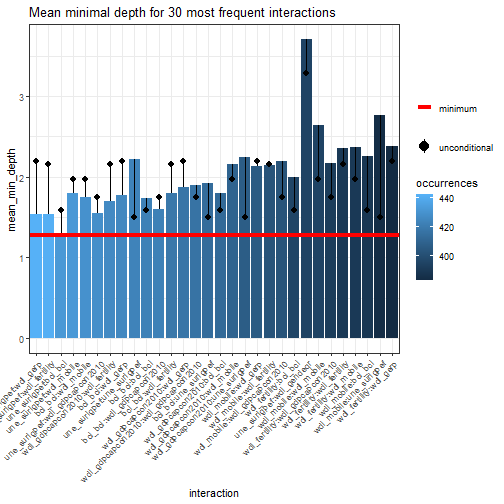
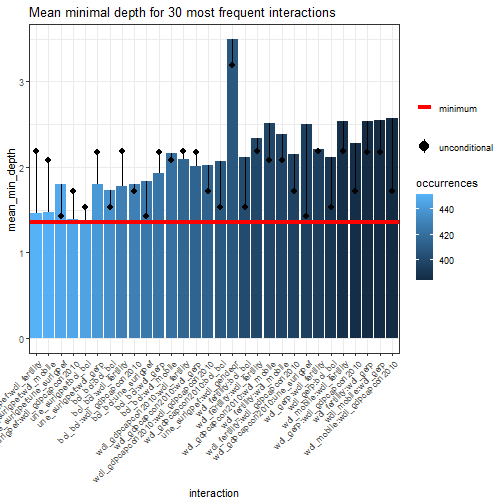
revised day 3

diff --git a/Day-3.html b/Day-3.html
@@ -746,8 +746,8 @@ dem.rf
 ##                      Number of trees: 500
 ## No. of variables tried at each split: 2
 ## 
-##           Mean of squared residuals: 0.008926536
-##                     % Var explained: 69
+##           Mean of squared residuals: 0.008589642
+##                     % Var explained: 70.17
 ```
 
 ---
@@ -843,7 +843,7 @@ class: center, middle
 library(rpart)
 
 # Load data
-kingzeng &lt;- read.csv("data/kingzeng.csv")
+kingzeng &lt;- read.csv("https://raw.githubusercontent.com/jnseawright/iqmr2026/main/Data/kingzeng.csv")
 
 # Fit CART with a subset of predictors
 homicide.cart &lt;- rpart(homratet ~ bnkv10 + bnkv125 + bnkv34 + faocalry + gdf_gnp, 
@@ -896,17 +896,66 @@ Navigate to: `https://jnseawright.github.io/practice-of-multimethod/Chapter-3.ht
 
 ---
 
-### Part 4 (Time Permitting): Topic Model Exploration
+### Part 4 (Time Permitting): Topic Model Exploration &amp; Case Selection
 
-**Alternative Lab Activity:**
-If students have already completed the CART exercise, they can explore the January 6th topic model results (provided as pre-computed topic assignments).
+**Scenario:** You have a corpus of 1,640 DOJ documents from January 6th cases. Reading all of them is impossible. How do you choose 3–5 documents for in-depth qualitative analysis? This exercise treats the topic model as a **structured sampling frame** to identify the most informative cases.
 
-**Task:**
-- Examine the topic descriptions.
-- Select one document from a topic of interest.
-- Read the original DOJ document (links provided).
-- Discuss: How does the topic model's characterization compare to your close reading?
- research, exactly as described in the course description.
+**Materials:**
+- `jan6_topic_assignments.csv` – Document-topic probabilities (theta) for all 1,640 files.
+- `jan6_topic_labels.csv` – Top 5 keywords for each topic (interpret the labels carefully).
+- `lab_excerpts/` – A pre-selected folder of PDFs matching the `doc_id` column in the CSV.
+
+---
+
+#### Task A: Understand the Model's Vocabulary (5 min)
+Open `jan6_topic_labels.csv` and review the top words for each topic (1–8).
+
+- **Topic 4** and **Topic 6** both use "building" and "restricted/grounds" – what distinguishes them based on the other keywords? 
+- **Topic 8** includes "oath" and "members" – what kind of legal document does this suggest?
+- **Topic 7** looks like gibberish (`wkh`, `ri`, `dqg`). We will return to this in Task D.
+
+---
+
+#### Task B: Select Your Cases (10 min)
+We will use a **threshold of 0.4** to define "reasonable membership" in a topic. 
+From `jan6_topic_assignments.csv`, identify **one document** for each of the following criteria:
+
+1. **Prototypical Case:** Filter for documents where `topic_4 &gt; 0.4`. Among those, find the value closest to the **median** probability for Topic 4. Record its `doc_id`. (This is the "average" administrative document).
+2. **Extreme Case:** Find the document with the **single highest** probability in `topic_8`. Record its `doc_id`. (This is the "purest" example of violence/recruitment).
+3. **Boundary Case:** Find a document with `topic_6` that is **just above 0.4** (the lowest probability that still qualifies as membership). Record its `doc_id`. (This is the fuzzy edge of the violence category).
+
+---
+
+#### Task C: Close Reading (15 min)
+Open the PDFs in `lab_excerpts/` that correspond to your selected `doc_id`s (e.g., `12.pdf`). Read the first 2–3 pages of each.
+
+For **each** document, fill out this table:
+
+| Question | Prototypical (Topic 4) | Extreme (Topic 8) | Boundary (Topic 6) |
+| :--- | :--- | :--- | :--- |
+| **What is the defendant actually accused of doing?** (1-2 sentences) | | | |
+| **List 2 specific actions or details mentioned that *do not* appear in the topic's top-word list.** | | | |
+| **Does the text reveal the defendant's motivation or ideology?** (Quote or paraphrase) | | | |
+| **Would you assign this to the same dominant topic as the model? Why/why not?** | | | |
+
+---
+
+#### Task D: The "Gibberish" Topic (Topic 7) – Model Auditing (5 min)
+Now look at `jan6_topic_labels.csv` for Topic 7. The words appear scrambled (e.g., "wkh" instead of "the"). 
+
+- Find the **extreme** case for Topic 7 (highest probability, probably &gt; 0.9). Open that PDF. 
+- Is the text in the PDF also garbled, or is it readable? 
+- If the PDF is readable but the extracted text is garbled, what does this tell you about the **preprocessing/OCR** stage of the pipeline? 
+- **Takeaway:** Always validate your model’s inputs qualitatively. A model is only as good as the text you feed it.
+
+---
+
+#### Group Discussion &amp; Debrief (10 min)
+In pairs or small groups, share your findings. Discuss:
+
+1. **Complementary strengths:** What did the close reading reveal about the *sequence of events* or *causal mechanisms* that the topic model completely missed? 
+2. **The boundary case:** Did the fuzzy document (just over 0.4) feel like it truly belonged to that topic, or did it seem misclassified? What new words would you add to the model to better distinguish it?
+3. **Efficiency:** If you had randomly picked 3 PDFs, how likely would you have found cases as informative as the ones the model pointed you to?
     </textarea>
 <style data-target="print-only">@media screen {.remark-slide-container{display:block;}.remark-slide-scaler{box-shadow:none;}}</style>
 <script src="https://remarkjs.com/downloads/remark-latest.min.js"></script>